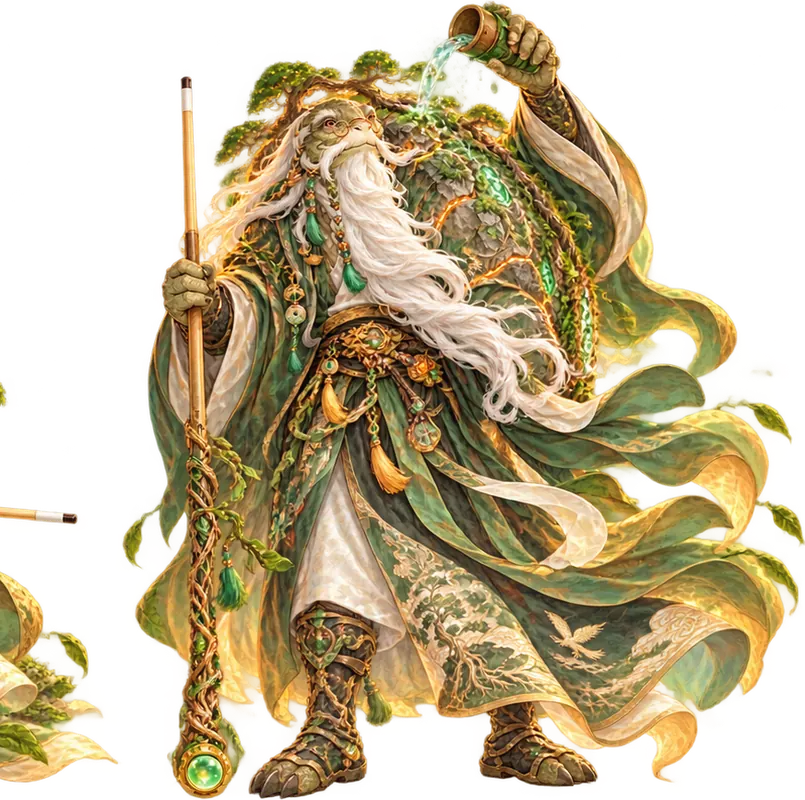
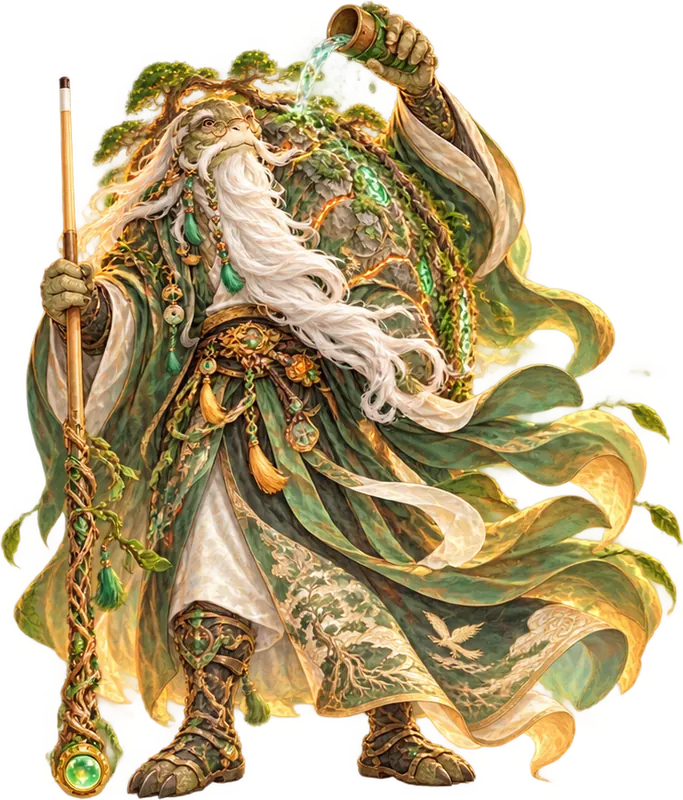
feat(art): ship the redrawn gallery poses that now pass review
Export drops any neighbour piece left at a sheet's cut edge; 251 of the 260
poses are now in the game.

diff --git a/.claude/skills/game-art/scripts/export-gallery.py b/.claude/skills/game-art/scripts/export-gallery.py
@@ -29,30 +29,27 @@ def keyed(src):
 
 
 def drop_edge_slivers(im):
-    """A pose cut from a two-figure sheet can keep a thin strip of its neighbour at the cut edge: clear any opaque
-    strip narrower than a quarter of the image that a clear gap of 8 px or more separates from the figure."""
-    a = im.getchannel("A")
-    w, hgt = im.size
-    cols = list((np.asarray(a) > 12).sum(axis=0))
-    for order in (range(w), range(w - 1, -1, -1)):
-        xs = list(order)
-        i = 0
-        while i < len(xs) and cols[xs[i]] == 0:
-            i += 1
-        start = i
-        while i < len(xs) and cols[xs[i]] > 0:
-            i += 1
-        strip = xs[start:i]
-        gap = 0
-        while i < len(xs) and cols[xs[i]] == 0:
-            gap += 1
-            i += 1
-        if strip and len(strip) < w // 4 and gap >= 8 and i < len(xs):
-            x0, x1 = min(strip), max(strip) + 1
-            im.paste((0, 0, 0, 0), (x0, 0, x1, hgt))
-            for x in strip:
-                cols[x] = 0
-    return im
+    """A pose cut from a two-figure sheet can keep a piece of its neighbour at the cut edge. Split the image into
+    runs of opaque columns; any run that touches the left or right edge and is not the widest run is the
+    neighbour's, so it is cleared."""
+    a = np.asarray(im).copy()
+    filled = (a[..., 3] > 12).any(axis=0)
+    runs, x, w = [], 0, len(filled)
+    while x < w:
+        if filled[x]:
+            start = x
+            while x < w and filled[x]:
+                x += 1
+            runs.append((start, x))
+        else:
+            x += 1
+    if len(runs) < 2:
+        return im
+    main = max(runs, key=lambda r: r[1] - r[0])
+    for r in runs:
+        if r is not main and (r[0] == 0 or r[1] == w):
+            a[:, r[0]:r[1], 3] = 0
+    return Image.fromarray(a, "RGBA")
 
 
 def fit_height(im, h):
